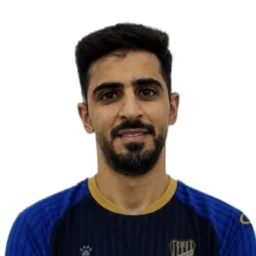
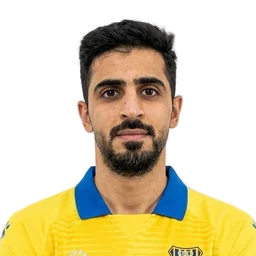
الساحل: علي جوهر 2 بصورة استوديو مولّدة بوجهه (Gemini) — v184

diff --git a/fantasy/index.html b/fantasy/index.html
@@ -12,7 +12,7 @@
 <link rel="preconnect" href="https://fonts.googleapis.com">
 <link rel="preconnect" href="https://fonts.gstatic.com" crossorigin>
 <link href="https://fonts.googleapis.com/css2?family=Almarai:wght@300;400;700;800&display=swap" rel="stylesheet">
-<link rel="stylesheet" href="css/style.css?v=183">
+<link rel="stylesheet" href="css/style.css?v=184">
 <script src="https://cdnjs.cloudflare.com/ajax/libs/firebase/10.12.2/firebase-app-compat.min.js"></script>
 <script src="https://cdnjs.cloudflare.com/ajax/libs/firebase/10.12.2/firebase-auth-compat.min.js"></script>
 <script src="https://cdnjs.cloudflare.com/ajax/libs/firebase/10.12.2/firebase-firestore-compat.min.js"></script>
@@ -20,13 +20,13 @@
 </head>
 <body>
   <div id="splash">
-    <div class="splash-card"><img class="splash-logo" src="assets/logo-light.png?v=183" alt="Kuwait Fantasy League"></div>
+    <div class="splash-card"><img class="splash-logo" src="assets/logo-light.png?v=184" alt="Kuwait Fantasy League"></div>
   </div>
 
   <header id="topbar" style="display:none">
     <div id="brand" onclick="APP.go('dashboard')">
-      <img class="brand-lockup lk-dark" src="assets/logo-dark.png?v=183" alt="Kuwait Fantasy League">
-      <img class="brand-lockup lk-light" src="assets/logo-light.png?v=183" alt="Kuwait Fantasy League">
+      <img class="brand-lockup lk-dark" src="assets/logo-dark.png?v=184" alt="Kuwait Fantasy League">
+      <img class="brand-lockup lk-light" src="assets/logo-light.png?v=184" alt="Kuwait Fantasy League">
     </div>
     <a id="toSite" href="/" title="العودة للموقع">
       <svg viewBox="0 0 24 24" width="16" height="16" fill="none" stroke="currentColor" stroke-width="2.2" stroke-linecap="round" stroke-linejoin="round" aria-hidden="true"><path d="M9 6l6 6-6 6"/></svg>
@@ -41,28 +41,28 @@
   <nav id="bottomnav"></nav>
   <div id="toasts"></div>
 
-  <script src="js/cloud.js?v=183"></script>
-  <script src="js/data.js?v=183"></script>
-  <script src="js/engine.js?v=183"></script>
-  <script src="js/ui.js?v=183"></script>
-  <script src="js/photos.js?v=183"></script>
-  <script src="js/kits.js?v=183"></script>
-  <script src="js/kits-number.js?v=183"></script>
-  <script src="js/moderation.js?v=183"></script>
-  <script src="js/views.js?v=183"></script>
-  <script src="js/picker.js?v=183"></script>
-  <script src="js/extras.js?v=183"></script>
-  <script src="js/push.js?v=183"></script>
-  <script src="js/adminauth.js?v=183"></script>
-  <script src="js/admin.js?v=183"></script>
-  <script src="js/guide.js?v=183"></script>
-  <script src="js/live-gw.js?v=183"></script>
-  <script src="js/points.js?v=183"></script>
-  <script src="js/mfsync.js?v=183"></script>
-  <script src="js/roster-sync.js?v=183"></script>
-  <script src="js/app.js?v=183"></script>
-  <script src="js/i18n.js?v=183"></script>
-  <script src="js/i18n-more.js?v=183"></script>
-  <script src="js/gate.js?v=183"></script>
+  <script src="js/cloud.js?v=184"></script>
+  <script src="js/data.js?v=184"></script>
+  <script src="js/engine.js?v=184"></script>
+  <script src="js/ui.js?v=184"></script>
+  <script src="js/photos.js?v=184"></script>
+  <script src="js/kits.js?v=184"></script>
+  <script src="js/kits-number.js?v=184"></script>
+  <script src="js/moderation.js?v=184"></script>
+  <script src="js/views.js?v=184"></script>
+  <script src="js/picker.js?v=184"></script>
+  <script src="js/extras.js?v=184"></script>
+  <script src="js/push.js?v=184"></script>
+  <script src="js/adminauth.js?v=184"></script>
+  <script src="js/admin.js?v=184"></script>
+  <script src="js/guide.js?v=184"></script>
+  <script src="js/live-gw.js?v=184"></script>
+  <script src="js/points.js?v=184"></script>
+  <script src="js/mfsync.js?v=184"></script>
+  <script src="js/roster-sync.js?v=184"></script>
+  <script src="js/app.js?v=184"></script>
+  <script src="js/i18n.js?v=184"></script>
+  <script src="js/i18n-more.js?v=184"></script>
+  <script src="js/gate.js?v=184"></script>
 </body>
 </html>
